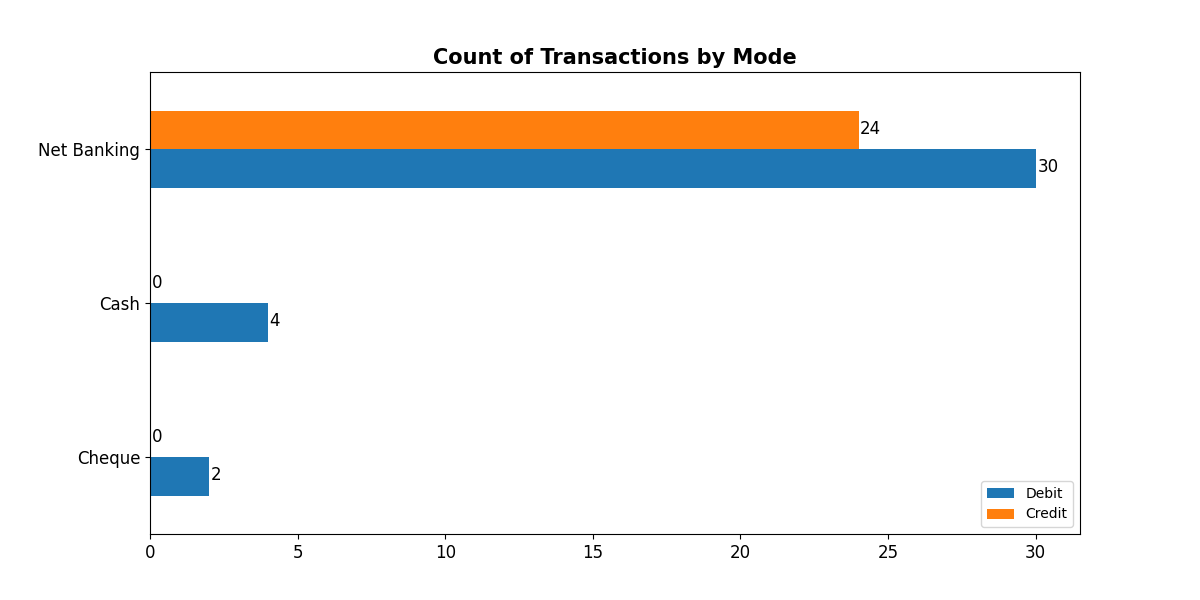
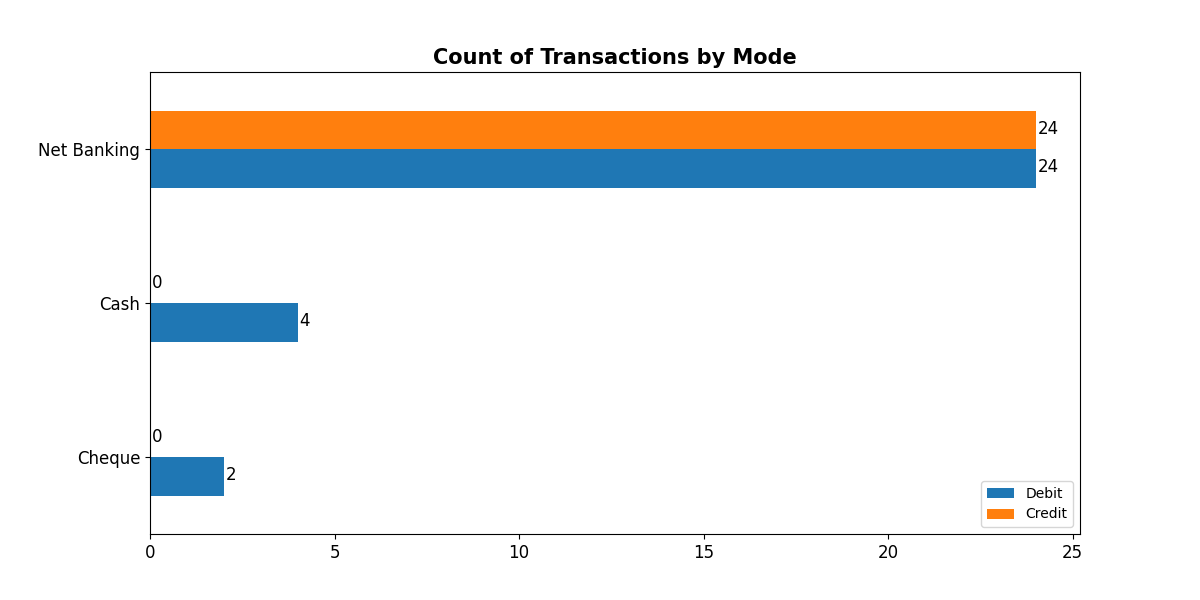
Changes

diff --git a/frontend/src/components/analyze/bank/month_wise/month_wise.jsx b/frontend/src/components/analyze/bank/month_wise/month_wise.jsx
@@ -721,24 +721,6 @@ const AnalyzeBankMonthWise = ({ setUser }) => {
                   colSpan={3}
                   style={{ fontSize: "15px" }}
                 >
-                  Month End Balance{" (₹)"}
-                </td>
-                {optbank.map((item) => {
-                  if (item) {
-                    return (
-                      <td style={{ textAlign: "right" }}>
-                        {item.Month_End_balance}
-                      </td>
-                    );
-                  }
-                })}
-              </tr>
-              <tr>
-                <td
-                  className="highlighted_headers"
-                  colSpan={3}
-                  style={{ fontSize: "15px" }}
-                >
                   Net Inflow Amount{" (₹)"}
                 </td>
                 {optbank.map((item) => {

diff --git a/frontend/src/components/analyze/Bureau/Bureau_analyze/bureauAnalyze.jsx b/frontend/src/components/analyze/Bureau/Bureau_analyze/bureauAnalyze.jsx
@@ -200,7 +200,10 @@ const BureauAnalyze = () => {
                 className="BureayAnalyzeCell"
               >
                 <tr>
-                  <th className="header-table-bureau-analayze">
+                  <th
+                    style={{ width: "285px" }}
+                    className="header-table-bureau-analayze"
+                  >
                     Age (in years)
                   </th>
                   <td className="num-bureau-analyze">{item?.age}</td>

diff --git a/frontend/src/components/bureau/bureau.css b/frontend/src/components/bureau/bureau.css
@@ -45,6 +45,7 @@
 }
 .table_bureau th {
   font-size: 14px;
+  padding: 8px;
 }
 .table_bureau_text {
   font-size: 14px;

diff --git a/backend/analyze/bank_customer_kpi/a3_bank_kpi.py b/backend/analyze/bank_customer_kpi/a3_bank_kpi.py
@@ -199,16 +199,14 @@ def bck(data):
 ### @@@@@@@@@@@@@@@@@@       Main logic code credit-debit frequency distribution graph  @@@@@@@@@@@@@@@@@@@@@@@@@@@@@@@@@@@@@@@@@@@@@@@@@@@@@@@@@@@@@@@@@@@@@@@@@@@@@@@@@@
 
 
-  debit_cash=df[df['mode'].str.lower().str.strip() == 'cash'][df['credit'] == 0]['debit'].count()
-  credit_cash=df[(df['mode'].str.lower().str.strip() == 'cash') & (df['debit'] == 0)]['credit'].count()
+  debit_cash=df[df['mode'].str.lower().str.strip() == 'cash']['debit'].count()
+  credit_cash = df[df['mode'].str.lower().str.strip() == 'cash']['credit'].count()
 
+  debit_cheque = df[df['mode'].str.lower().str.strip() == 'cheque']['debit'].count()
+  credit_cheque = df[(df['mode'].str.lower().str.strip() == 'cheque') & (df['debit'] == 0)]['credit'].count()
 
-  debit_cheque=df[df['mode'].str.lower().str.strip() == 'cheque'][df['credit'] == 0]['debit'].count()
-  credit_cheque=df[df['mode'].str.lower().str.strip() == 'cheque'][df['debit'] == 0]['credit'].count()
-
-
-  debit_net=df[(df['mode'].str.lower().str.strip().str.replace(' ', '')=='netbanking') & (df['credit'] == 0)]['credit'].count()
-  credit_net=df[(df['mode'].str.lower().str.strip().str.replace(' ', '')=='netbanking') & (df['debit'] == 0)]['credit'].count()
+  debit_net = df[df['mode'].str.lower().str.strip().str.replace(' ', '') == 'netbanking']['credit'].count()
+  credit_net = df[df['mode'].str.lower().str.strip().str.replace(' ', '') == 'netbanking']['credit'].count()
 
   data = {'debit': [debit_cheque, debit_cash, debit_net],
           'credit': [credit_cheque, credit_cash, credit_net]

diff --git a/backend/analyze/bureau_customer_monthly_kpi/bureau_customer_month_kpi.py b/backend/analyze/bureau_customer_monthly_kpi/bureau_customer_month_kpi.py
@@ -760,10 +760,10 @@ def bureau_c_m_k(bureau_ref_dtl, bureau_score_segment, bureau_account_segment_tl
     # crif_cibil_dedup_4['emi_impute']=np.where(crif_cibil_dedup_4['emi_impute']>500,crif_cibil_dedup_4['emi_impute'],np.nan)
     crif_cibil_dedup_4['emi'] = crif_cibil_dedup_4['emi'].fillna(0)
 
-    crif_cibil_dedup_4['emi_impute'] = np.where(((crif_cibil_dedup_4['emi_new'] <= 500) | (
-                (crif_cibil_dedup_4['emi_new'] >= crif_cibil_dedup_4['disbursed_amount']) & (
+    crif_cibil_dedup_4['emi_impute'] = np.where(((crif_cibil_dedup_4['emi'] <= 500) | (
+                (crif_cibil_dedup_4['emi'] >= crif_cibil_dedup_4['disbursed_amount']) & (
                     crif_cibil_dedup_4['disbursed_amount'] > 0))), crif_cibil_dedup_4['emi_deflate'],
-                                                crif_cibil_dedup_4['emi_new'])
+                                                crif_cibil_dedup_4['emi'])
 
     # crif_cibil_dedup_4['emi_impute']=np.where(crif_cibil_dedup_4['emi_amount']<=500,crif_cibil_dedup_4['emi_deflate'],crif_cibil_dedup_4['emi_amount'])
 
